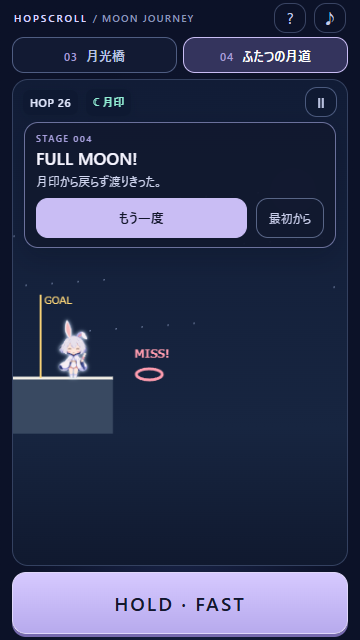
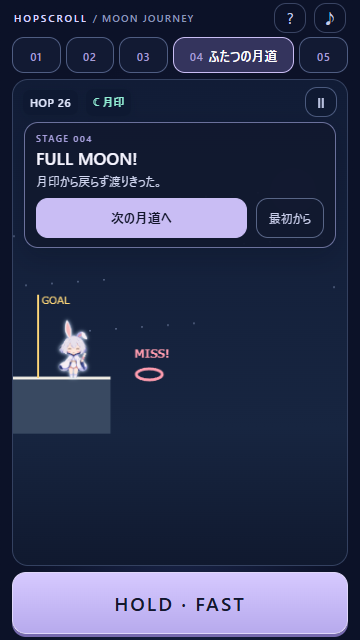
feat: admit five Moon Journey stages with safe intro and festival fork

diff --git a/moon-lab.css b/moon-lab.css
@@ -79,3 +79,12 @@ h2{font-size:17px;font-weight:750;line-height:1.3;margin:3px 0}
  #hold{min-height:62px}
 }
 @media(prefers-reduced-motion:reduce){*{transition:none!important;animation:none!important}}
+
+/* Five destinations share one row; the selected stop opens its name. */
+[data-journey] .stage-tabs{gap:5px}
+[data-journey] .stage-tabs button{padding:7px 5px;white-space:nowrap;flex:1}
+[data-journey] .stage-tabs .stage-name{display:none}
+[data-journey] .stage-tabs button[aria-pressed=true]{flex:3}
+[data-journey] .stage-tabs button[aria-pressed=true] .stage-name{display:inline}
+[data-journey] .stage-number{margin-right:0}
+[data-journey] button[aria-pressed=true] .stage-number{margin-right:5px}
